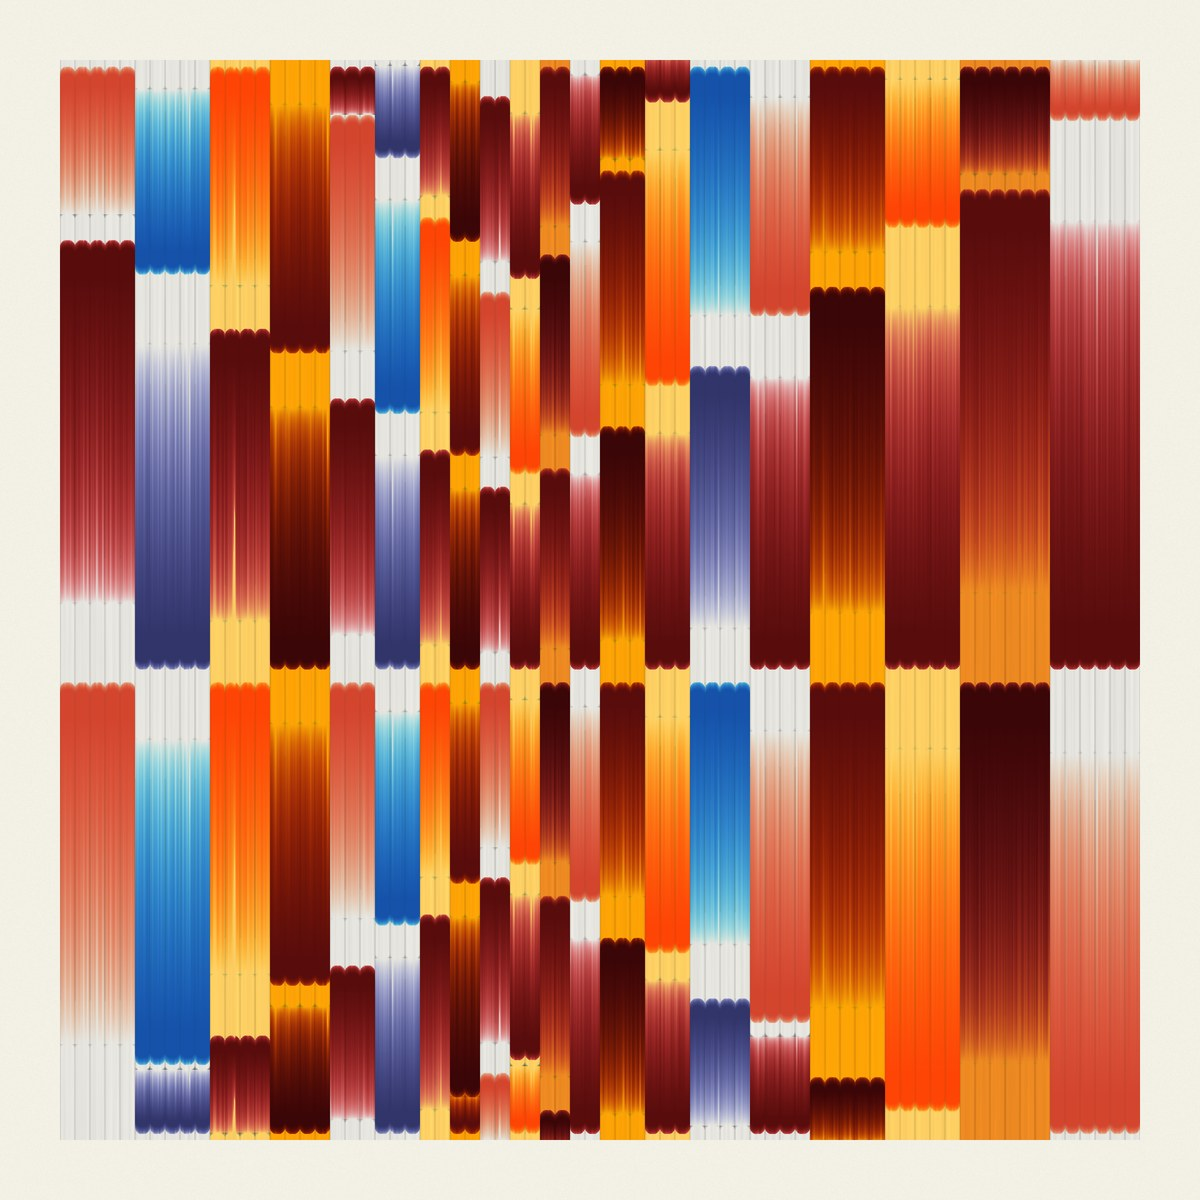
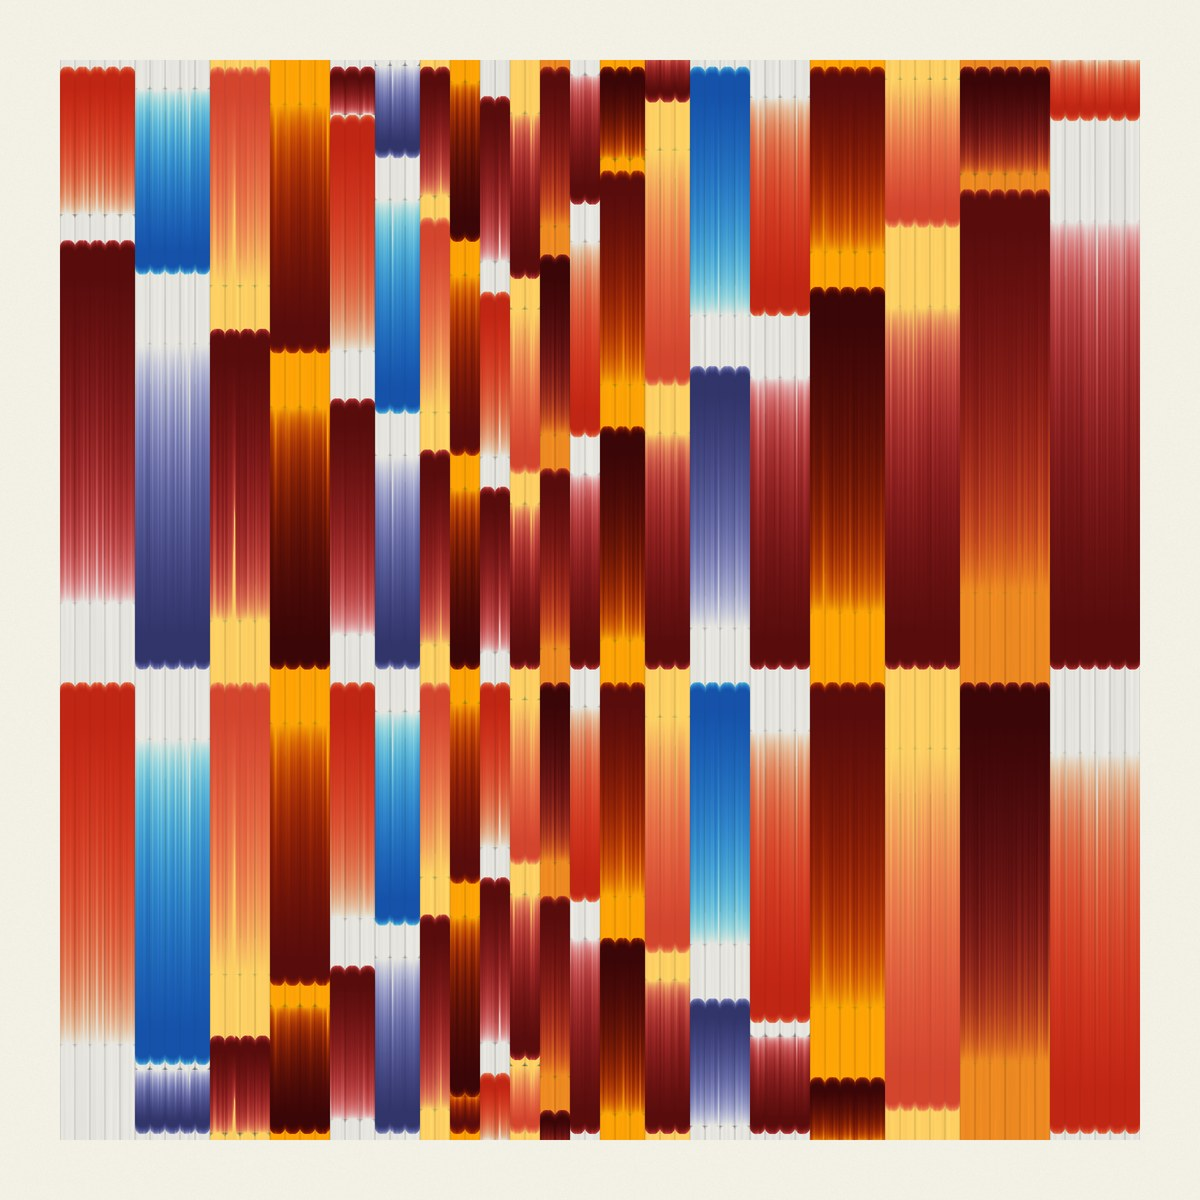
HOLO: Jar 6 orange, Jar 12 lilac, the pictures made again in them
The owner, 2026-11-14: "Jar 6 is orange, Jar 12 is lilac". Jar 6 is
FORM-G's #EE8A22, so New · Orange (its recipe) is out; the red orange
shadows go to Jar 13, the warm fan's red to Jar 20. Compositions as
they were.

diff --git a/HOLO-Claude/generator/holo_jars.py b/HOLO-Claude/generator/holo_jars.py
@@ -6,7 +6,8 @@ already mixed and there is paint" — HOLO-Claude/IMAGE 2026-11-12 12:32:52.jpg,
 The compositions are cloud-Claude's, untouched (holo_study.py: the same slats, bands, puddles and seeds; the owner: "all is excellent"); only every
 jar of a picture is one of his, by hand, light for light and dark for dark, each family kept (a shadow only over its own family or white):
   - a numbered jar: its hex as FORM-G's red classic has it (app/formg/porsche-red-k.json), the colour it was mixed to — the photo's wet, glossy
-    darks read 8 … 10 L lighter (COLORS' note); but Jar 6 and Jar 12 by the photo, which shows another colour on the lid (est.; asked);
+    darks read 8 … 10 L lighter (COLORS' note); Jar 12 by the photo, its lid's lilac, not FORM-G's blue grey (the owner, 2026-11-14:
+    "Jar 6 is orange, Jar 12 is lilac"), so Jar 6 FORM-G's orange of the indicators and the new Orange that was its very recipe gone;
   - a jar with no number on its lid: by the photo, white-balanced on the empty aluminium lids, est.;
   - four new jars, the four empty ones: straight from tubes on the shelf (colorlib.js, measured dry, est.), one a mix COLORS already knows.
 
@@ -23,8 +24,8 @@ OUT = os.path.join(HERE, '..', '..', 'app', 'holo')
 # the owner's jars: id, name, his number (None: none on the lid yet), hex, seen ('formg', 'photo', 'tube'), a note
 JARS = [
     ('j1', 'Jar 1', 1, '#E6E5DF', 'formg', ''),
-    ('j6', 'Jar 6', 6, '#FF4600', 'photo', "the lid reads a red orange; FORM-G's hex is the amber #EE8A22 (asked)"),
-    ('j12', 'Jar 12', 12, '#BCCBEE', 'photo', "the lid reads a pale periwinkle; FORM-G's hex is the blue grey #757C91 (asked)"),
+    ('j6', 'Jar 6', 6, '#EE8A22', 'formg', ''),                    # the owner, 2026-11-14: "orange", FORM-G's orange of the indicators
+    ('j12', 'Jar 12', 12, '#BCCBEE', 'photo', "lilac, its lid's colour (the owner, 2026-11-14), not FORM-G's blue grey #757C91"),
     ('j13', 'Jar 13', 13, '#D4462F', 'formg', ''),
     ('j20', 'Jar 20', 20, '#C12614', 'formg', ''),
     ('j27', 'Jar 27', 27, '#9D0D0D', 'formg', ''),
@@ -36,8 +37,8 @@ JARS = [
     ('amber', 'Amber', None, '#FFA401', 'photo', 'no number on its lid yet'),
     ('sky', 'Sky', None, '#58BCF6', 'photo', 'no number on its lid yet'),
     ('darkblue', 'Dark blue', None, '#33366B', 'photo', 'no number on its lid yet; a photo reads a dark lighter than it is'),
-    # the four empty jars, new: from the tubes on the shelf (colorlib.js, PAINTS, dry in daylight), 1 : 1 with pouring medium as every jar
-    ('orange', 'New · Orange', None, '#EE8A22', 'tube', "Orange Yellow 50 : Orange 1, COLORS' recipe of the indicator's amber (ΔE 5, est.)"),
+    # the four empty jars, new: from the tubes on the shelf (colorlib.js, PAINTS, dry in daylight), 1 : 1 with pouring medium as every jar;
+    # a fourth, New · Orange, was COLORS' recipe of the indicator's amber — Jar 6 itself (2026-11-14), so it is out
     ('skyblue', 'New · Sky Blue', None, '#4090C0', 'tube', 'Sky Blue straight from the tube'),
     ('blue04', 'New · Blue 04', None, '#1653AA', 'tube', "the blue marked 04 on the palette sheet, straight from the tube"),
     ('ultra', 'New · Ultramarine', None, '#101F7E', 'tube', 'Ultramarine straight from the tube'),
@@ -46,11 +47,11 @@ JAR = {j[0]: j for j in JARS}
 
 # every picture: cloud-Claude's colour → the owner's jar, by its role (a ground light, a shadow dark, the family kept)
 MAP = {
-    'holo-40-warm': {'#F2E9DC': 'j1', '#FAD321': 'paleyellow', '#F0AC26': 'amber', '#EB870F': 'orange',
-                     '#E45C06': 'j6', '#C22303': 'j13', '#791406': 'j39', '#3B0807': 'j45', '#2B49C7': 'blue04', '#141A55': 'darkblue'},
+    'holo-40-warm': {'#F2E9DC': 'j1', '#FAD321': 'paleyellow', '#F0AC26': 'amber', '#EB870F': 'j6',
+                     '#E45C06': 'j13', '#C22303': 'j20', '#791406': 'j39', '#3B0807': 'j45', '#2B49C7': 'blue04', '#141A55': 'darkblue'},
     'holo-60-blue': {'#F1F3F2': 'j1', '#C6E7FA': 'j12', '#EDDAC9': 'cream', '#46A4EF': 'sky', '#1C77E8': 'skyblue',
-                     '#134BC9': 'blue04', '#0F1DC2': 'ultra', '#09116C': 'ultra', '#0E0820': 'j48', '#F15518': 'j6', '#80241C': 'j39'},
-    'holo-60-tiers': {'#E6D9C3': 'j1', '#D98A4E': 'orange', '#A43E20': 'j20', '#622019': 'j39', '#33140F': 'j45',
+                     '#134BC9': 'blue04', '#0F1DC2': 'ultra', '#09116C': 'ultra', '#0E0820': 'j48', '#F15518': 'j13', '#80241C': 'j39'},
+    'holo-60-tiers': {'#E6D9C3': 'j1', '#D98A4E': 'j6', '#A43E20': 'j20', '#622019': 'j39', '#33140F': 'j45',
                       '#8DBDE1': 'sky', '#3D8BD3': 'skyblue', '#0539A5': 'blue04', '#02036C': 'ultra', '#090715': 'j48', '#C3271B': 'j13'},
 }
 SUB = {'holo-40-warm': 'the fan, warm', 'holo-60-blue': 'the fan, blue', 'holo-60-tiers': 'the tiers'}

diff --git a/HOLO-Claude/generator/README.md b/HOLO-Claude/generator/README.md
@@ -7,14 +7,15 @@ there is paint" — `../IMAGE 2026-11-12 12:32:52.jpg`, his jars of the day, and
 
 `holo_jars.py` takes `../HOLO/study/holo_study.py` as it is — the same slats, bands, puddles and seeds — and gives every colour of a picture one of
 his jars, by hand, light for light and dark for dark, a family kept (a shadow only over its own family or white). A numbered jar by its hex in
-FORM-G's red classic (`app/formg/porsche-red-k.json`), but Jar 6 and Jar 12, whose lids read another colour, by the photo; a jar with no number by
-the photo, white-balanced on the empty aluminium lids; the four new ones from the tubes on the shelf (`app/src/colorlib.js`). All est.
+FORM-G's red classic (`app/formg/porsche-red-k.json`), but Jar 12 by the photo, its lid's lilac (the owner, 2026-11-14: "Jar 6 is orange, Jar 12 is
+lilac"); a jar with no number by the photo, white-balanced on the empty aluminium lids; the new ones from the tubes on the shelf
+(`app/src/colorlib.js`) — three: the fourth, Orange, was the recipe of Jar 6's own orange, so Jar 6 in its place. All est.
 
 | picture | jars | new |
 |---|---|---|
-| `holo-40-warm`, the fan, warm, 40 × 40 | 10 | Orange, Blue 04 |
+| `holo-40-warm`, the fan, warm, 40 × 40 | 10 | Blue 04 |
 | `holo-60-blue`, the fan, blue, 60 × 60 | 10 | Sky Blue, Blue 04, Ultramarine |
-| `holo-60-tiers`, the tiers, 60 × 60 | 11 | Orange, Sky Blue, Blue 04, Ultramarine |
+| `holo-60-tiers`, the tiers, 60 × 60 | 11 | Sky Blue, Blue 04, Ultramarine |
 
 To run: a venv with numpy, pillow and scipy, the working directory this one; about a minute.
 

diff --git a/CHANGELOG.md b/CHANGELOG.md
@@ -5,6 +5,12 @@ Machine measurements stay in RUBENS: `../Rubens/CALIBRATION.md`.
 
 ## After v.1.2.3 — 2026-11-10
 
+- **HOLO: Jar 6 orange, Jar 12 lilac** (2026-11-14; asked whether the lids or FORM-G's hex are right, the owner: "Jar 6 is orange, Jar 12
+  is lilac"). `HOLO-Claude/generator/holo_jars.py`: Jar 6 FORM-G's orange of the indicators, `#EE8A22`, not the photo's red orange; Jar 12 the
+  photo's lilac `#BCCBEE` as it was, its note his word. New · Orange, COLORS' recipe of that very orange, is Jar 6 itself: out, Jar 6 the
+  orange grounds of the warm fan and the tiers. Cloud-Claude's red orange shadows, Jar 6's before, now Jar 13 (the warm fan over pale yellow,
+  the blue fan's accent), and the warm fan's red over white Jar 20 (ΔE 5.9) in Jar 13's place, by hand as before. `app/holo/` made again:
+  the slats, bands and puddles to the mm as they were; new jars 3 at most (Blue 04 alone on the 40 × 40).
 - **A fork counts 1.5° past its edges** (the owner, 2026-11-13, the classic's v.4, its shadow, stopped at block 6: "J 2 14: the elbow
   does not get to 14.0° (it stands at +13.9°)" — "we fixed that 1.5° is allowed"). ARM_WITHIN's 1.5° held for a plain J only; a dip's
   steps at hand are forks (README, How to dip) and were checked to their edges, and his depth in INK-Y, 14, is the paint fork's very floor:
